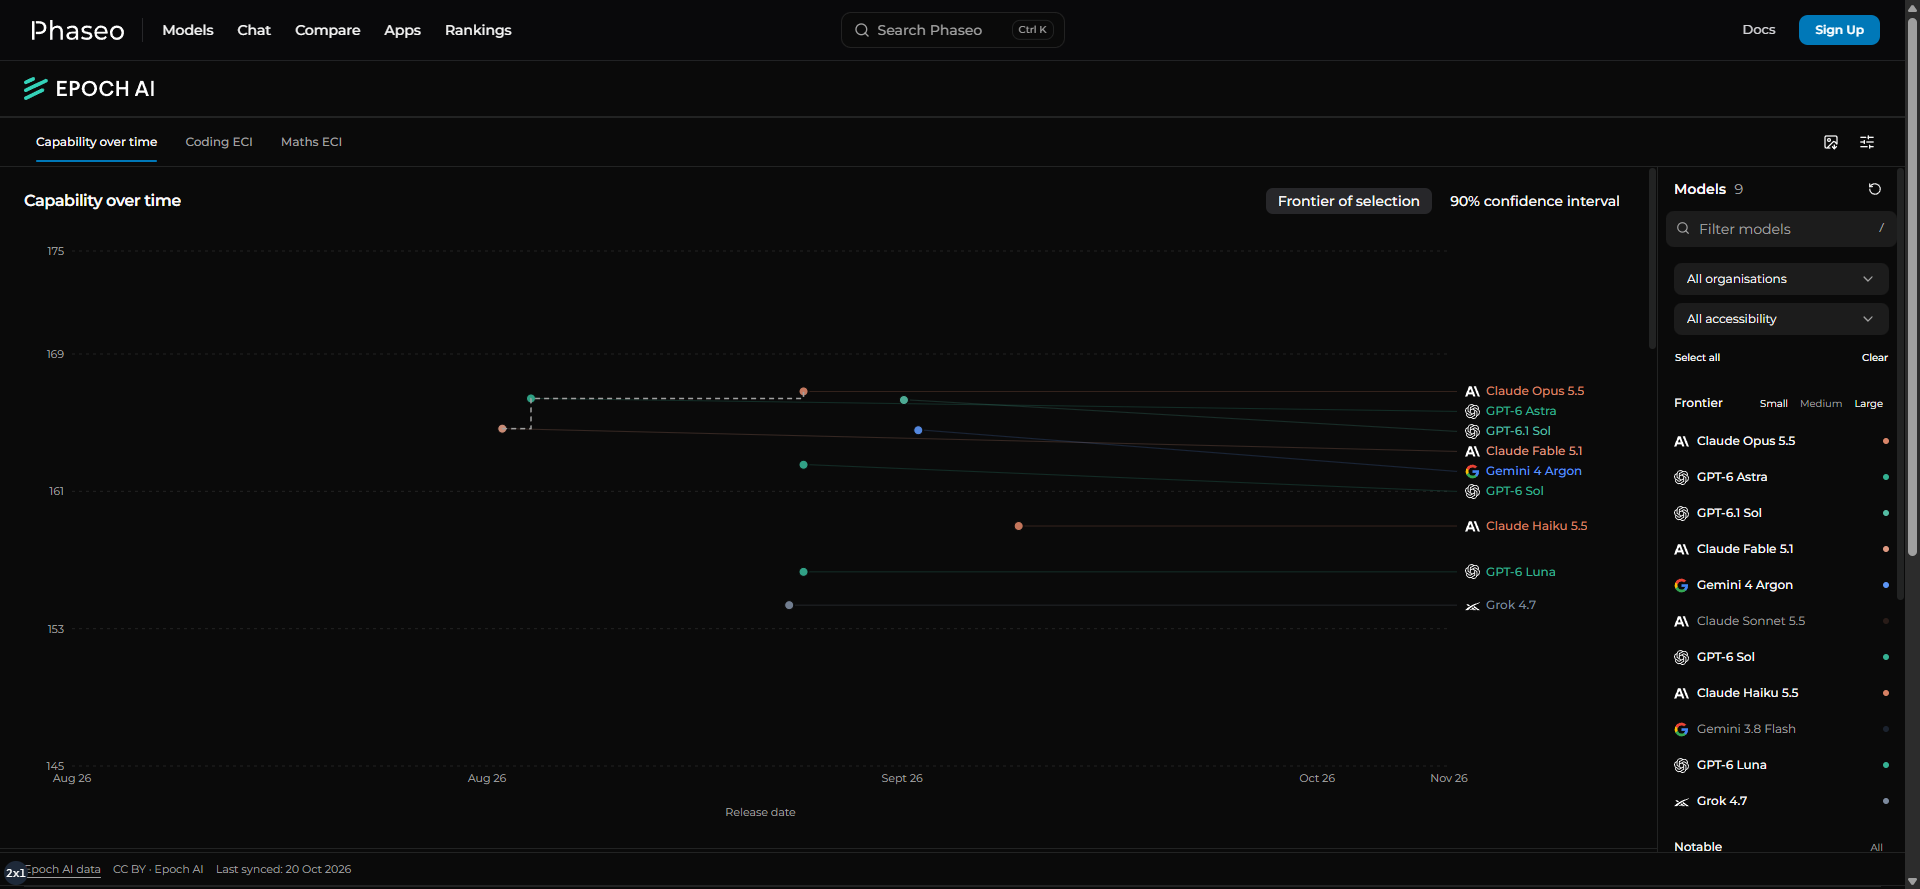
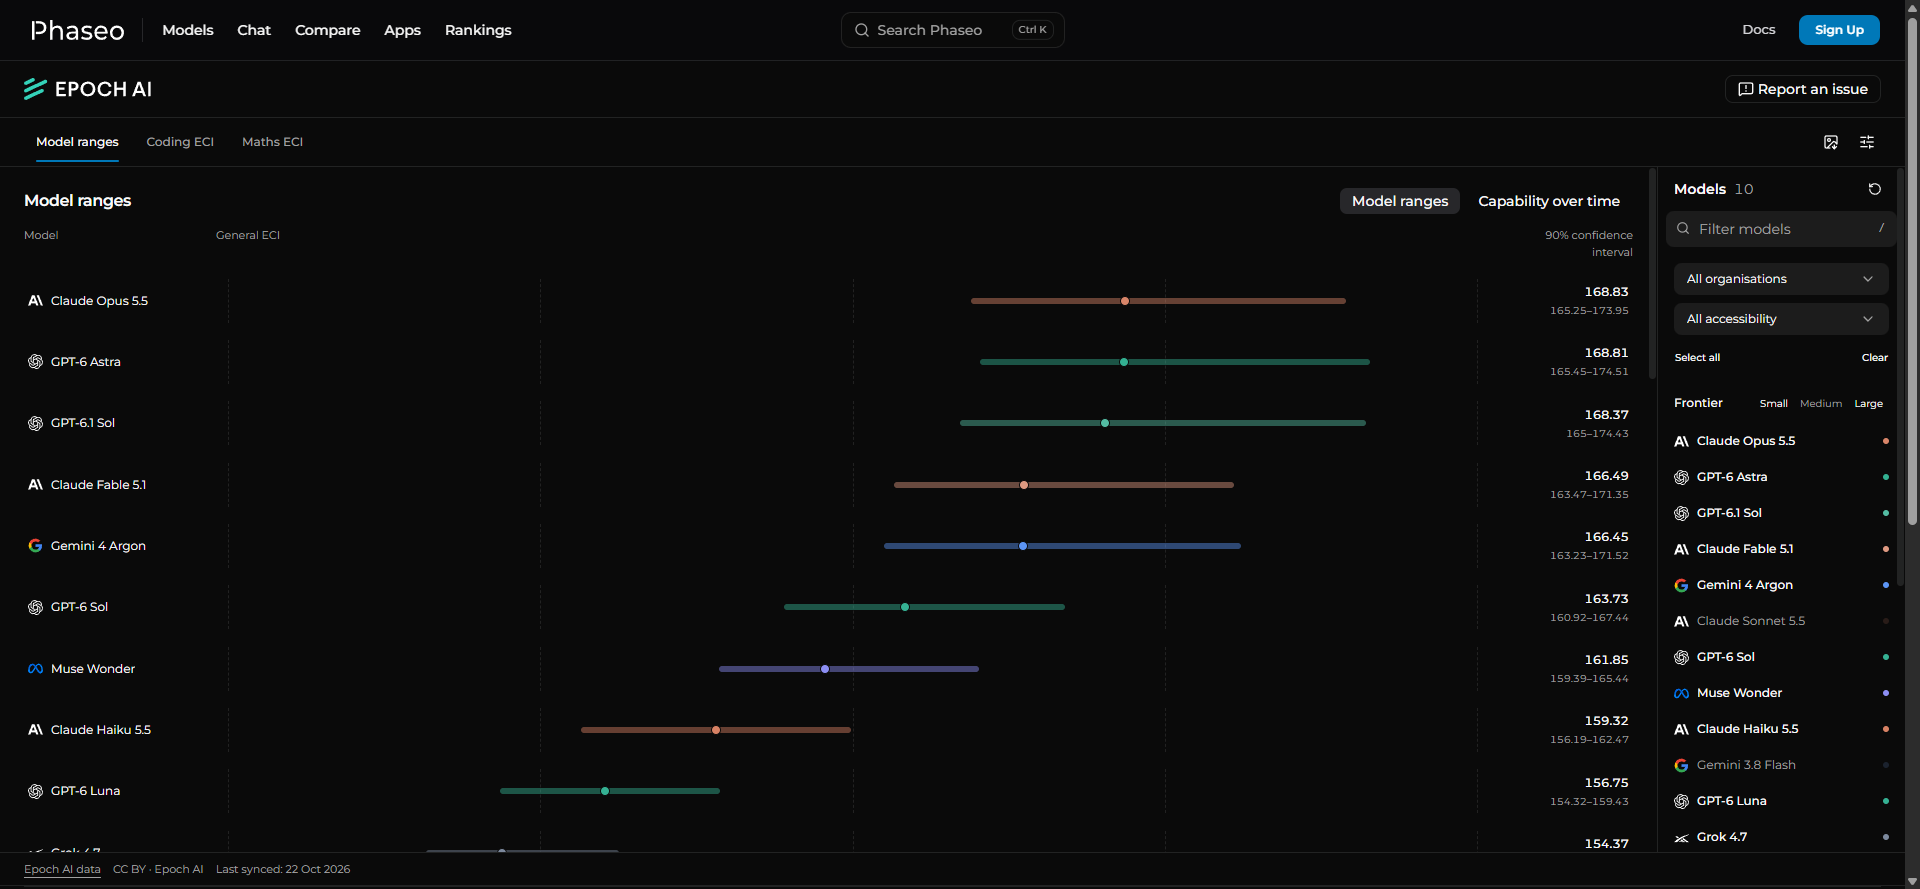
Document ECI range comparison verification

diff --git a/docs/architecture/eci-dashboard-proof/README.md b/docs/architecture/eci-dashboard-proof/README.md
@@ -1,11 +1,12 @@
 # ECI dashboard proof
 
-Updated on 21 October 2026. Before images show production. After images show the AA-consistent workspace in a temporary local demo using saved public Epoch source files from 20 October. The demo rendered the actual dashboard component and was removed after verification. Desktop captures are 1920px; phone width is 390px. Public source values can change between captures.
+Updated on 22 October 2026. Before images show production. The desktop, phone and range-comparison images show the local production build loading live public Epoch data on 22 October. Desktop captures are 1920px; phone width is 390px. The older domain-comparison image was captured on 21 October using saved public source files. Public source values can change between captures.
 
 | View | Before | After |
 | --- | --- | --- |
 | Desktop | [Before](before-desktop.png) | [After](after-desktop.png) |
 | Phone | [Before](before-phone.png) | [After](after-phone.png) |
+| Pinned range comparison | — | [Comparison](range-comparison.png) |
 | Pinned domain comparison | — | [Comparison](domain-comparison.png) |
 
 ## Data contract
@@ -19,7 +20,9 @@ Updated on 21 October 2026. Before images show production. After images show the
 ## Verification
 
 - ECI and shared AA regression tests cover CSV identity/precision, missing/zero/negative values, logistic recovery, domain membership and observation aggregation, frontier ties, stable SVG focus, keyboard pinning, point differences, domain switching, empty selection and upstream fallback.
-- Browser checks verified the shared right-hand picker, three chart sections, direct labels, pinned domain comparison, mobile model drawer with search and Done, and no document overflow at desktop and 390px.
-- The production build passed. The first local development run loaded live Epoch scores and domains. The local production run initially demonstrated general-only fallback after an Epoch connection timeout; a later request failed earlier while fetching catalogue benchmark metadata. Final screenshots therefore use saved real public source files, not a claim of successful production data loading. No production writes, schema changes, imports or migrations were performed.
+- The default view compares estimates and published 90% intervals on a shared score axis. Missing intervals remain unavailable. The general timeline keeps its uncertainty bars visible. Coding and maths remain point estimates, and comparison cards do not infer statistical significance from overlapping marginal intervals.
+- Thirteen ECI tests passed, including default range rendering, missing intervals, zero/negative estimates, timeline focus/pinning, interval comparison, source parsing and fallback. Full web typechecking, localization validation and the production build passed. The UI audit found 0 unreviewed candidates across 1610 modules.
+- Browser checks loaded live data with 10 selected models and 10 published ranges, verified pinned comparison with both intervals, timeline uncertainty, mobile model drawer with search and Done, and no document overflow at desktop and 390px. The comparison card stayed inside the phone viewport. CSV export produced 10 rows with a confidence-interval field containing numeric low/high bounds.
+- Earlier local requests on 21 October had upstream timeouts; the 22 October production-build verification succeeded with live scores and domain data. This is local verification, not a claim of production deployment. No production writes, schema changes, imports or migrations were performed.
 
 See the PR's Proof section for command results and build warnings.
